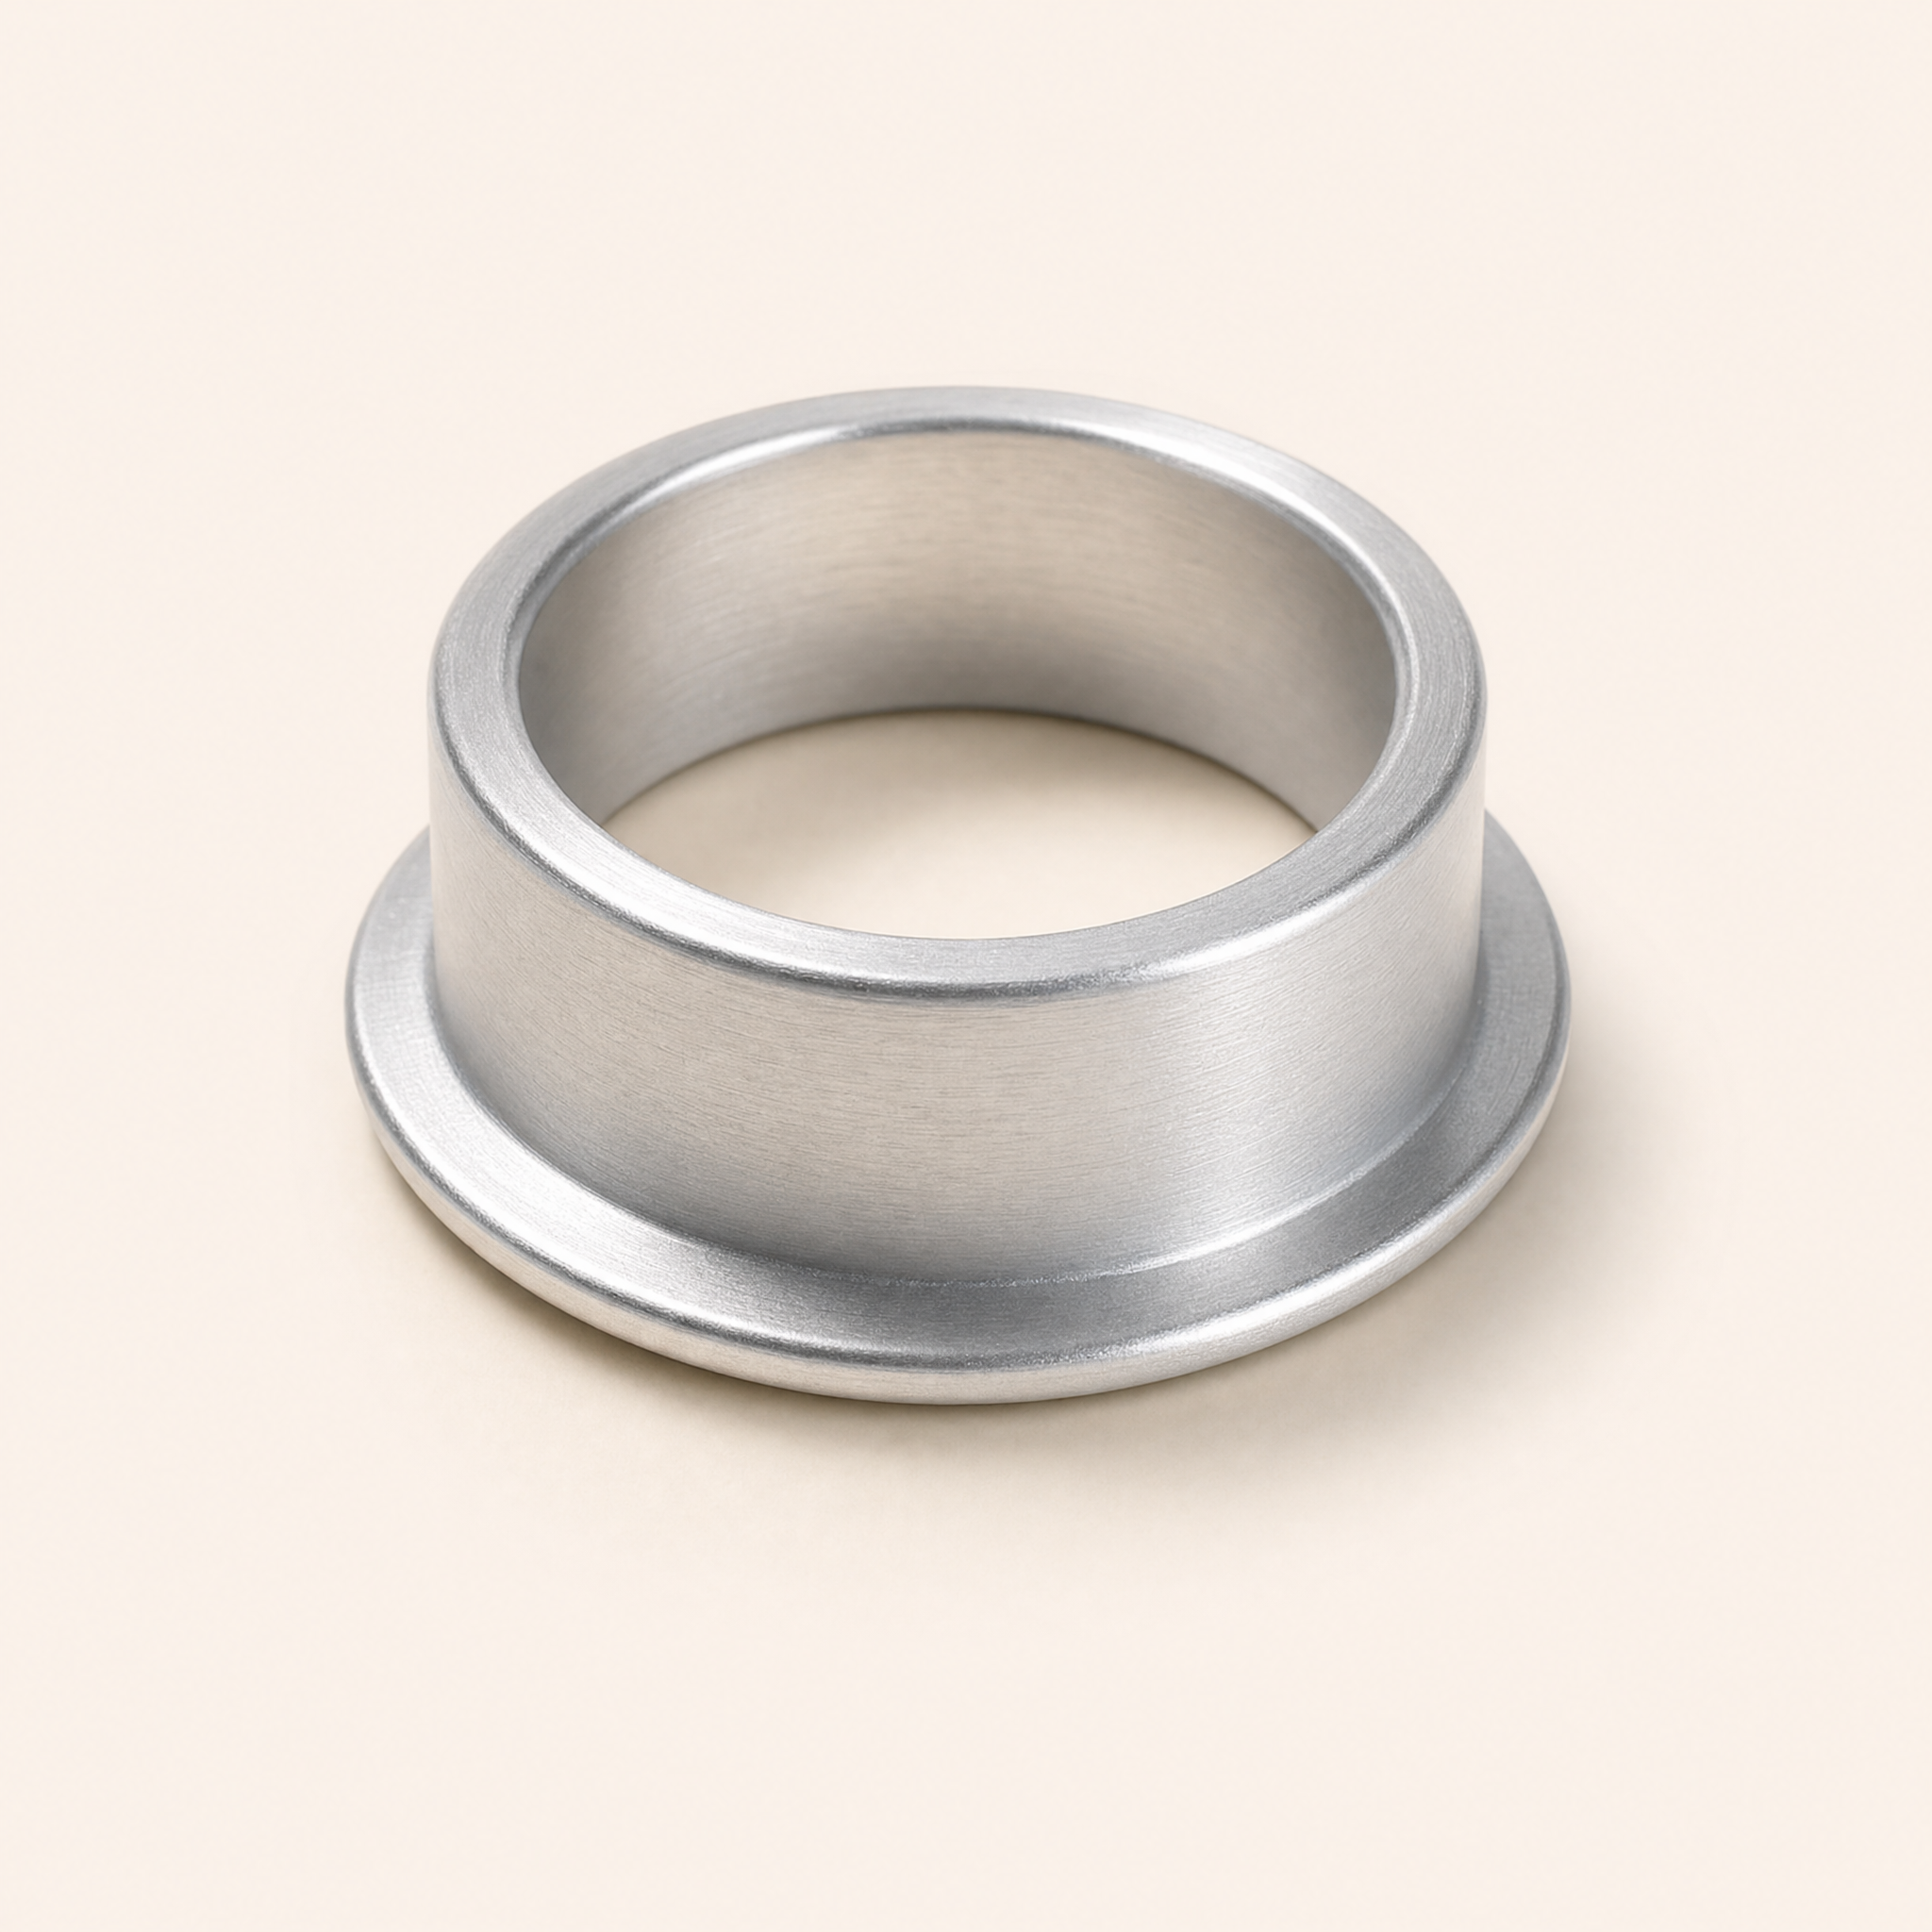
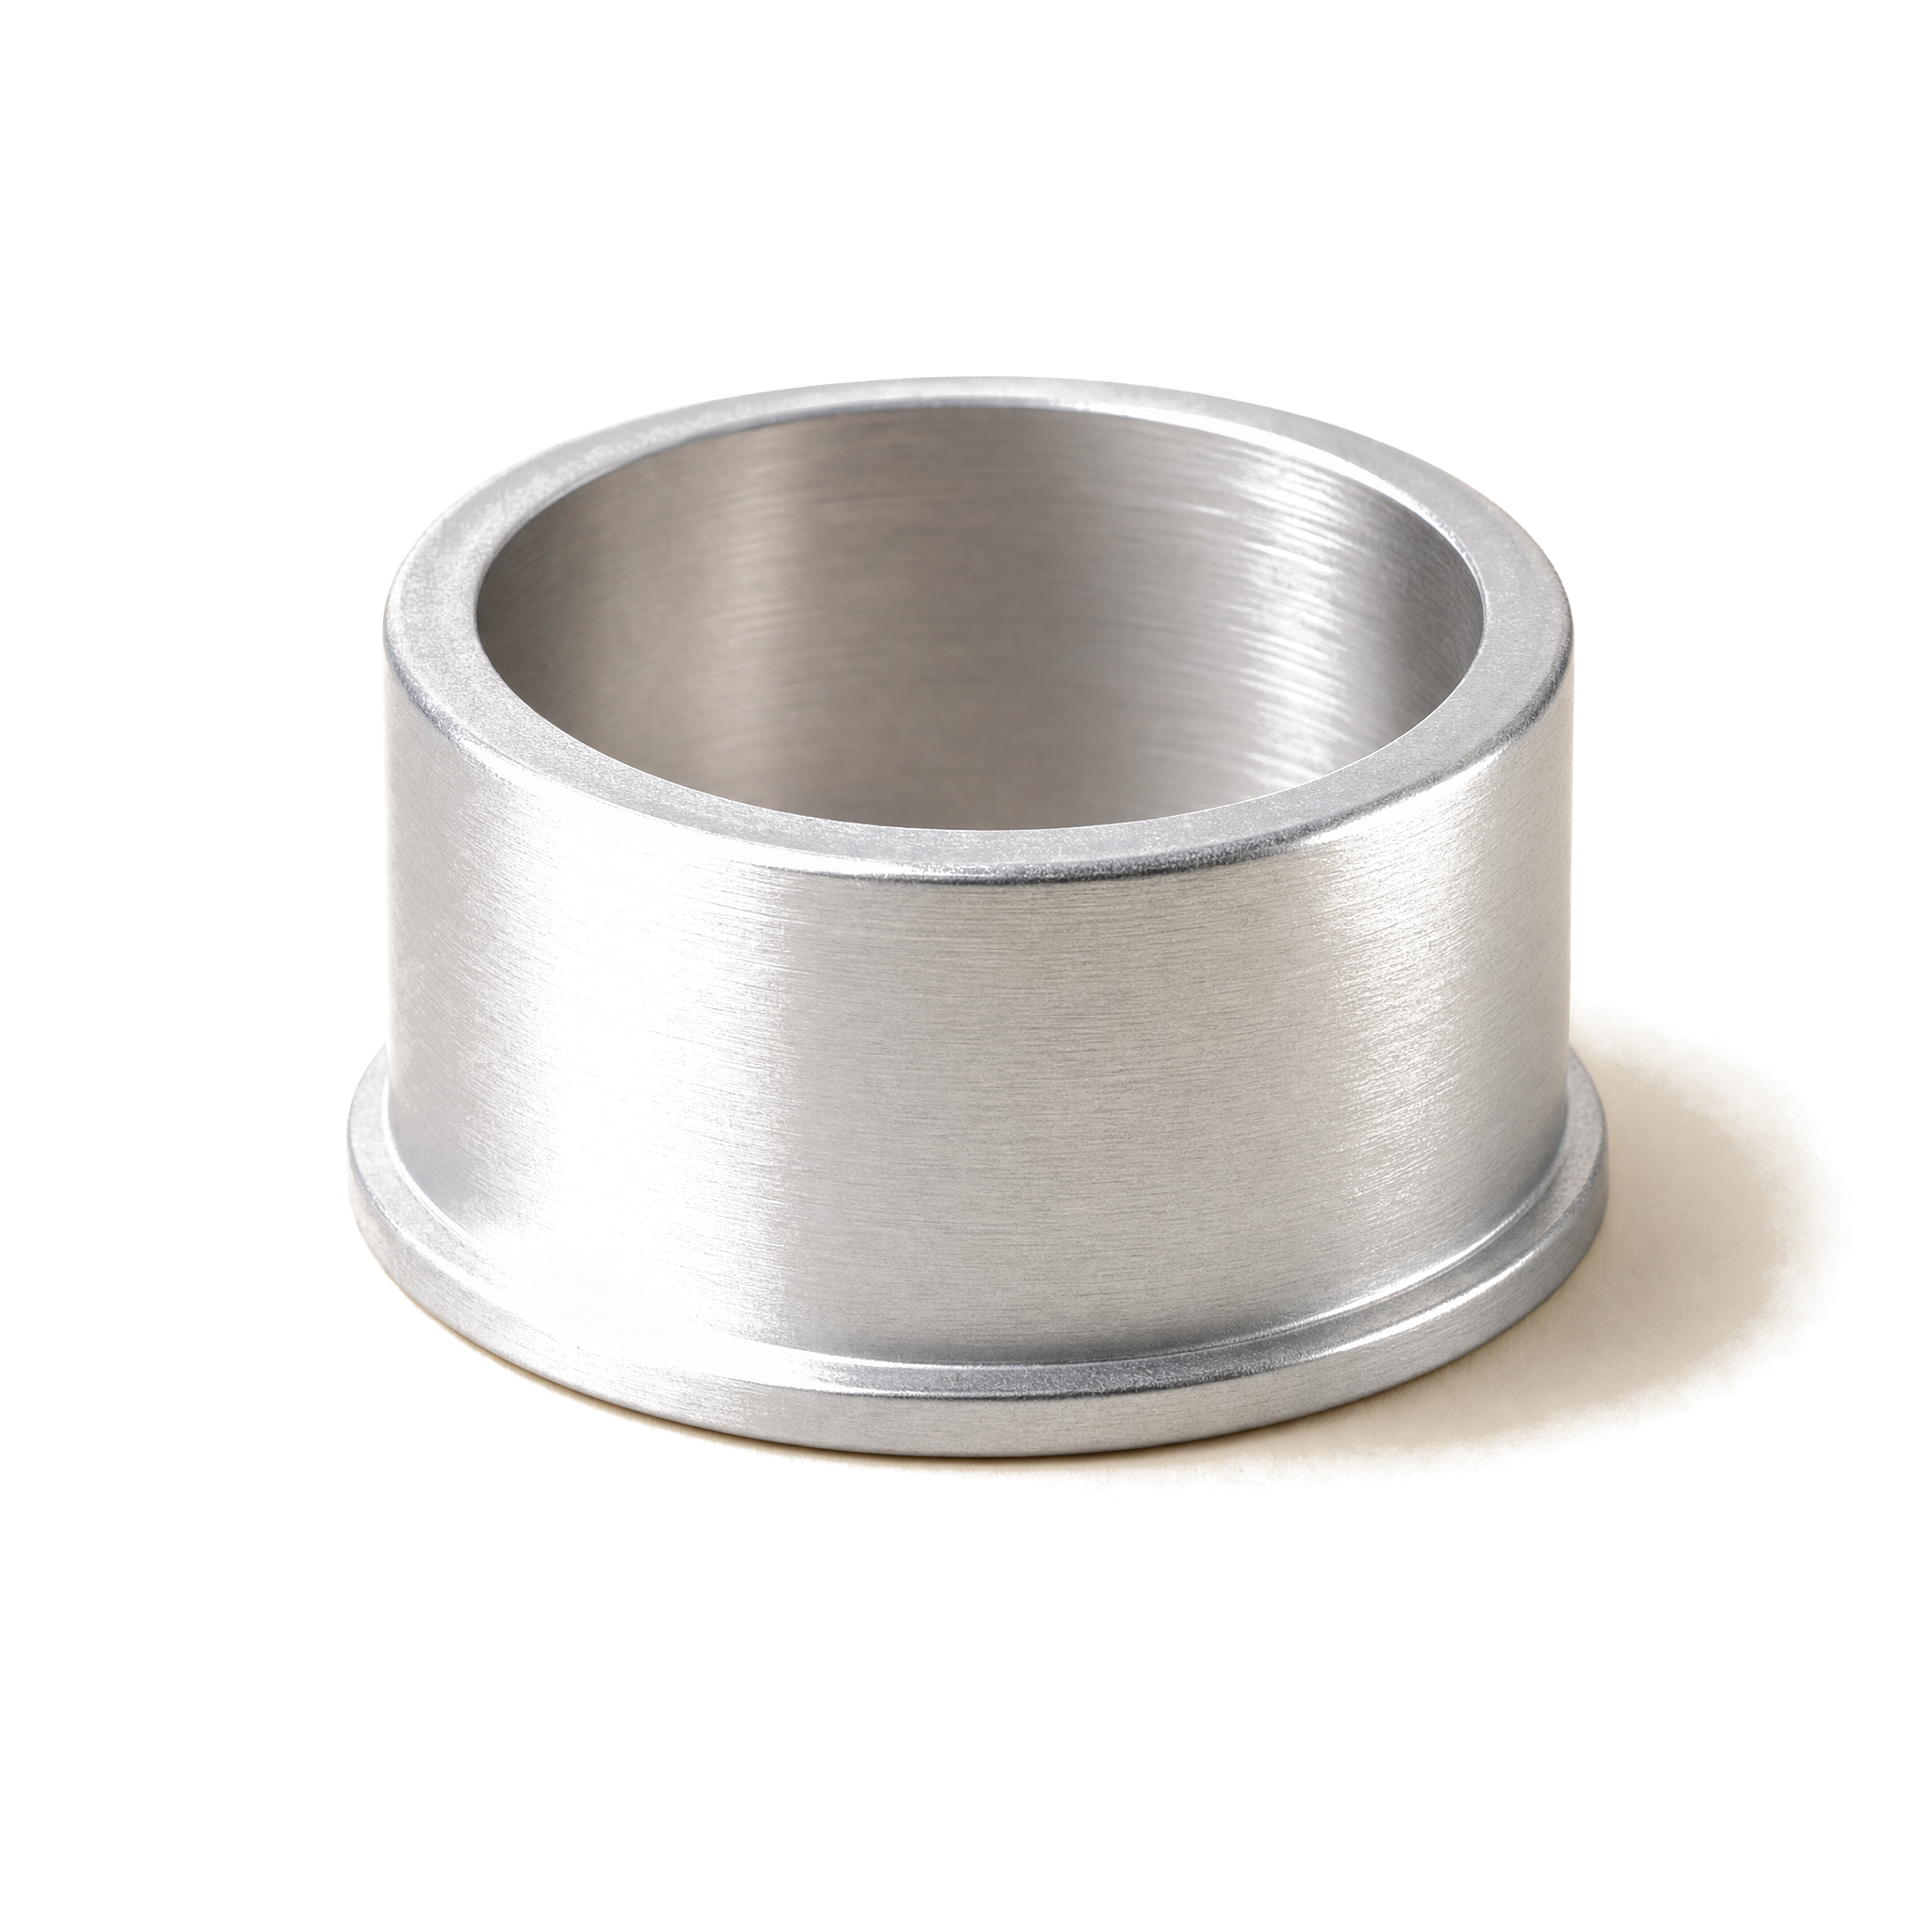
Make vial parts transparent + fix cap shape to match the real vial
Parts were generated on cream backgrounds with mix-blend-mode: darken
hiding the rectangles against the cream section. That broke down at
narrower viewports / when parts moved past adjacent text — the cream
rectangles became visible and occluded copy.

Fix:
- Regenerated the cap with a corrected prompt — it was rendering as
  a fluted soda-bottle cap; the actual BPC vial uses a low-profile
  pharmaceutical crimped seal (flat brushed silver top, single thin
  band at the base). New prompt explicitly bars bottle-cap fluting
  and constrains the height-to-width ratio.
- Re-rendered all 4 parts on the same cream background for a
  consistent post-process.
- Added scripts/make-transparent.py: PIL color-keys cream pixels to
  alpha=0 with a soft 14→36 distance ramp for clean anti-aliased
  edges, then overwrites in place.
- Dropped mix-blend-mode: darken from .vial-part since transparent
  PNGs no longer need the cream-cancellation trick.

Changed region(s): [[0.1562, 0.1875, 0.9375, 0.8438]]

diff --git a/assets/css/style.css b/assets/css/style.css
@@ -336,7 +336,6 @@ body { font-family: var(--font-sans); color: var(--ink); }
 .vial-part {
   position: absolute;
   left: 50%;
-  mix-blend-mode: darken;
   will-change: transform, opacity;
   pointer-events: none;
   user-select: none;

diff --git a/scripts/make-transparent.py b/scripts/make-transparent.py
@@ -1,0 +1,56 @@
+"""
+Color-key out the cream #F5EDE3 background of generated part PNGs and
+write transparent versions. Uses a soft alpha falloff between the
+"definitely cream" zone (fully transparent) and "definitely part" zone
+(fully opaque) so edges aren't jagged.
+
+Usage:  python scripts/make-transparent.py
+"""
+from pathlib import Path
+from PIL import Image
+
+PARTS = ["part-cap.png", "part-ring.png", "part-stopper.png", "part-body.png"]
+IMG_DIR = Path(__file__).resolve().parent.parent / "assets" / "img"
+
+# Cream target color
+TR, TG, TB = 0xF5, 0xED, 0xE3
+# Chebyshev-distance thresholds:
+HARD_CUT = 14   # <= this distance from cream → fully transparent
+SOFT_END = 36   # >= this distance from cream → fully opaque
+                # (linear alpha ramp in between)
+
+
+def keyed_alpha(r: int, g: int, b: int) -> int:
+    d = max(abs(r - TR), abs(g - TG), abs(b - TB))
+    if d <= HARD_CUT:
+        return 0
+    if d >= SOFT_END:
+        return 255
+    return int(round(((d - HARD_CUT) / (SOFT_END - HARD_CUT)) * 255))
+
+
+def process(src: Path, dst: Path) -> None:
+    im = Image.open(src).convert("RGBA")
+    px = im.load()
+    w, h = im.size
+    for y in range(h):
+        for x in range(w):
+            r, g, b, _ = px[x, y]
+            px[x, y] = (r, g, b, keyed_alpha(r, g, b))
+    im.save(dst, optimize=True)
+    print(f"  {src.name} -> {dst.name} ({w}x{h})")
+
+
+def main() -> None:
+    print(f"Processing in {IMG_DIR}")
+    for name in PARTS:
+        src = IMG_DIR / name
+        if not src.exists():
+            print(f"  skip {name} (missing)")
+            continue
+        process(src, src)  # overwrite in place
+    print("done")
+
+
+if __name__ == "__main__":
+    main()